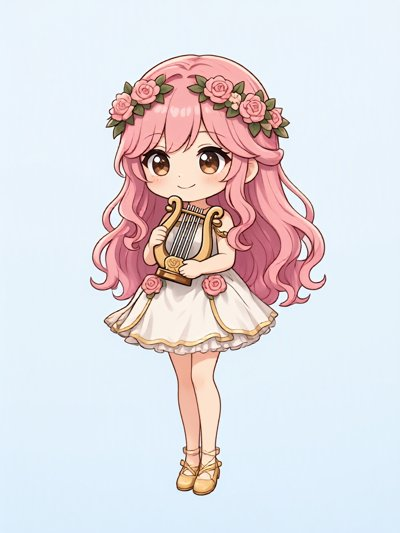
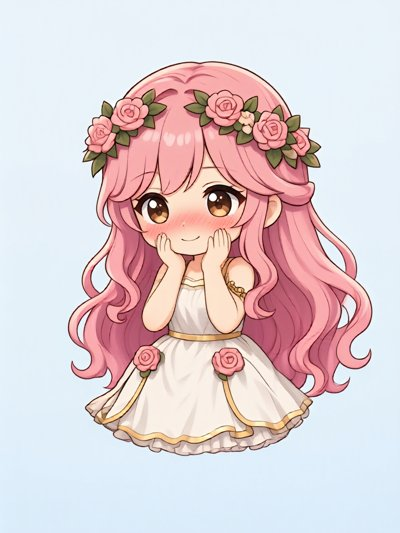
プロフィール肖像を女神会議の好みで選び直し（ちび版のまま9名差し替え）

diff --git a/profile.html b/profile.html
@@ -1,7 +1,7 @@
 <!DOCTYPE HTML PUBLIC "-//W3C//DTD HTML 4.01 Transitional//EN">
 <html lang="ja"><head><meta http-equiv="Content-Type" content="text/html; charset=UTF-8"><link rel="stylesheet" href="style.css"><title>女神たちの紹介｜オリンポスの片隅</title></head><body>
 <h1>女神たちの紹介</h1>
-<p>この片隅にいる十人の紹介です。肖像は、女神会議の判定により「ちび版」に決まりました。</p>
+<p>この片隅にいる十人の紹介です。肖像は、女神会議の判定により「ちび版」に決まりました。その後、学習素材が揃った折の会議で、一人ずつ本人の好みにより選び直しています。</p>
 <table>
 <tr><th>カリオペー<br><img src="profile-img/calliope.jpg" width="200" alt="カリオペーの肖像"></th><td>カリオペー。九人のムーサの筆頭として、長い物語を語る者です。英雄の旅も、小さな出来事の積み重ねも、語られれば歴史になる。この片隅では、サイトの節目ごとに物語の断片をお届けします。どうぞ、ゆっくりと読み進めてください。</td></tr>
 <tr><th>クレイオー<br><img src="profile-img/clio.jpg" width="200" alt="クレイオーの肖像"></th><td>クレイオーと申します。歴史と名声を司ります。起きたことを正しく記録し、名を残すのが私の領分です。更新の履歴と出来事の記録は、私が丁寧にお預かりします。記録は、未来への手紙です。</td></tr>
